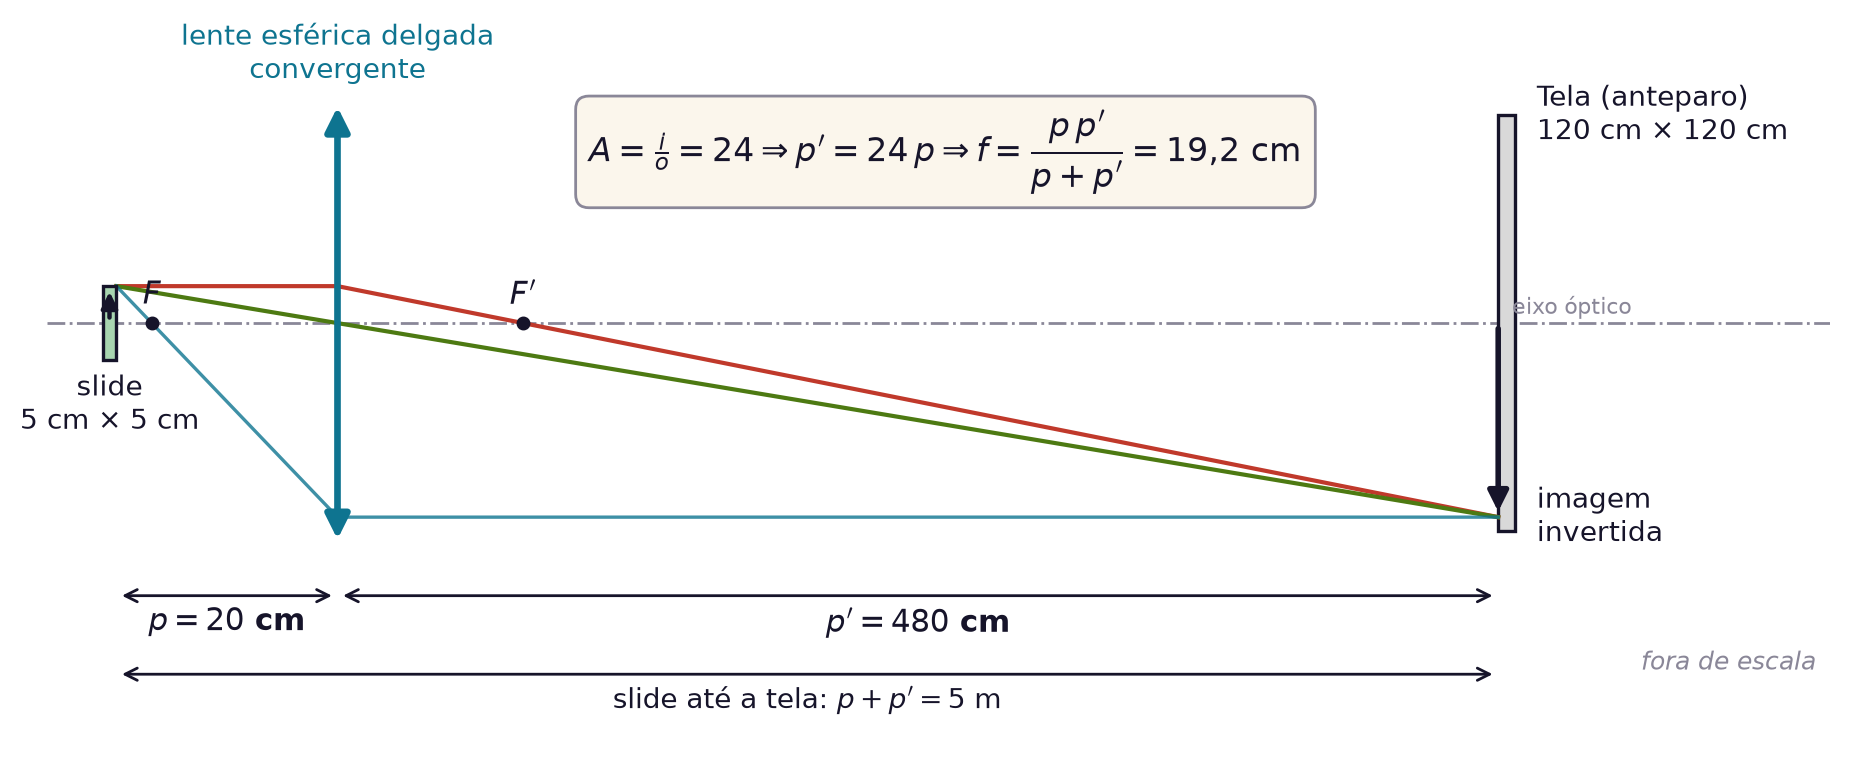
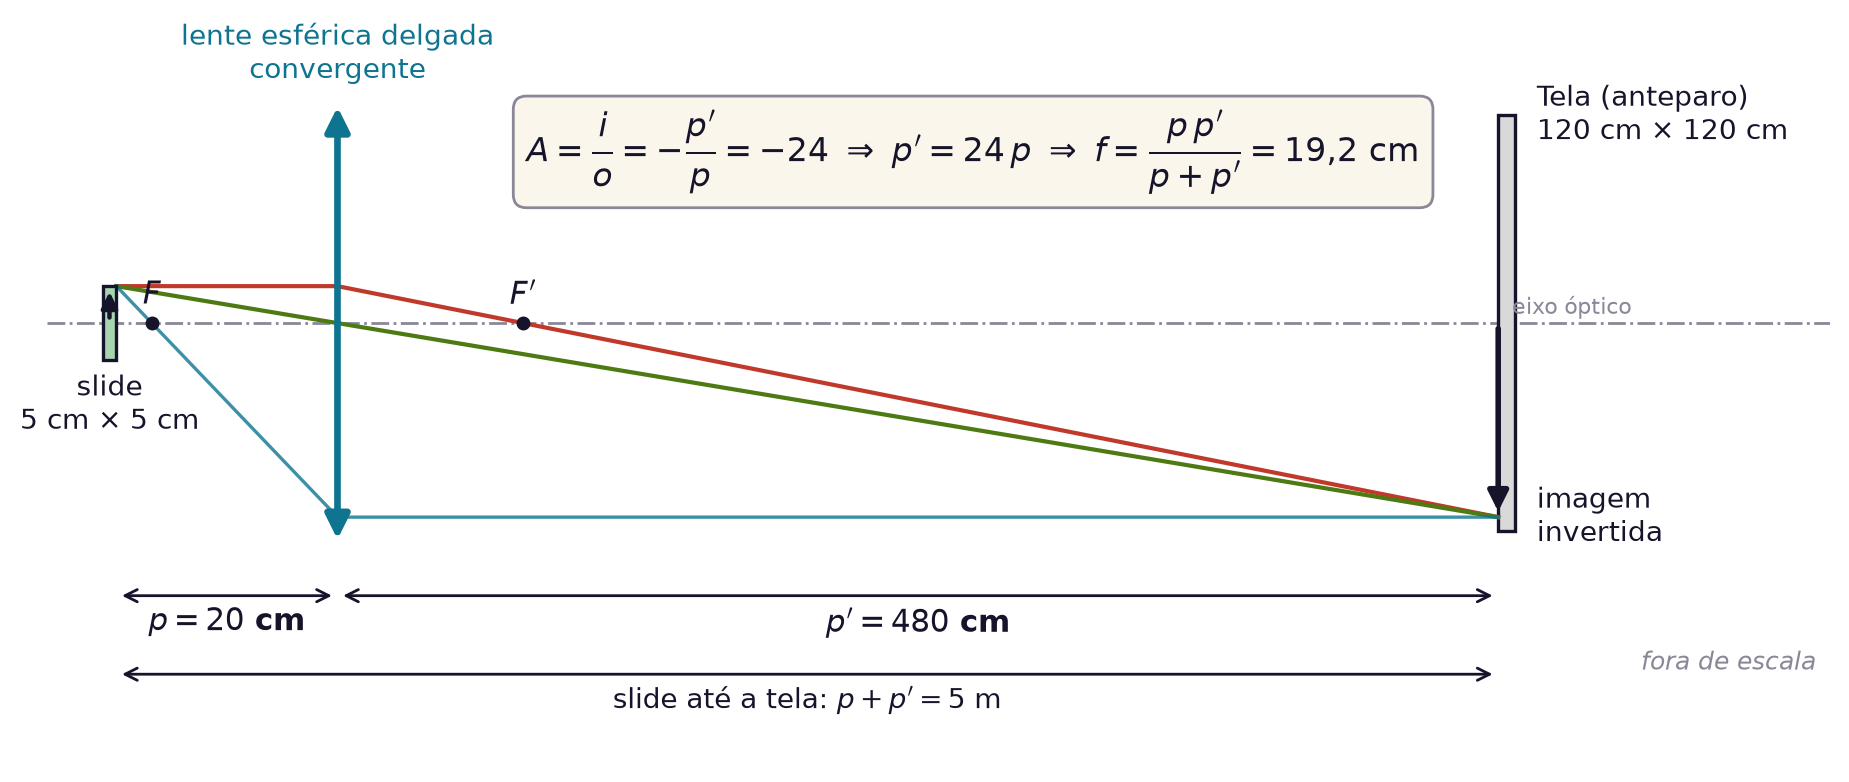
UNESP 2027: ajustes nas resolucoes (Q76, Q80), figuras e Q77 (#11)

diff --git a/unesp.html b/unesp.html
@@ -356,24 +356,30 @@
   <details class="fv-res">
     <summary>Ver resolução</summary>
     <div class="fv-text">
-      <p>Para aparecer numa tela a imagem tem de ser <b>real</b> (e, numa lente convergente, invertida). Chame de <i>p</i> a distância slide–lente e de <i>p′</i> a distância lente–tela.</p>
-      <p><b>1. Aumento linear.</b> Imagem e tela são quadrados de mesma área, então o lado da imagem é <span data-tex-i="120\ \text{cm}">120 cm</span>:</p>
+      <p>Para aparecer numa tela, a imagem tem de ser <b>real</b>, e numa lente convergente ela é <b>invertida</b>. Chame de <i>p</i> a distância slide–lente e de <i>p′</i> a distância lente–tela, e adote a convenção: altura do objeto <i>o</i> positiva e da imagem <i>i</i> negativa quando ela é invertida.</p>
+      <p><b>1. Aumento linear transversal.</b> Ele relaciona as alturas e as distâncias. O sinal negativo indica imagem invertida:</p>
       <div class="fv-calc">
-        <span data-tex="A=\dfrac{i}{o}=\dfrac{120}{5}=24\;\Rightarrow\;p'=24\,p">A = i/o = 120/5 = 24  ⇒  p′ = 24·p</span>
+        <span data-tex="A=\dfrac{i}{o}=-\dfrac{p'}{p}">A = i/o = −p′/p</span>
       </div>
+      <p>Imagem e tela são quadrados de mesma área, então o lado da imagem é <span data-tex-i="120\ \text{cm}">120 cm</span>. Como ela é invertida, <span data-tex-i="i=-120\ \text{cm}">i = −120 cm</span>, e o slide tem <span data-tex-i="o=5\ \text{cm}">o = 5 cm</span>:</p>
+      <div class="fv-calc">
+        <span data-tex="A=\dfrac{i}{o}=\dfrac{-120}{5}=-24">A = i/o = −120/5 = −24</span>
+        <span data-tex="-\dfrac{p'}{p}=-24\;\Rightarrow\;p'=24\,p">−p′/p = −24  ⇒  p′ = 24·p</span>
+      </div>
+      <p>O sinal negativo só informa que a imagem é invertida. O que importa para as distâncias é que a imagem é 24 vezes maior que o slide.</p>
       <p><b>2. Distâncias.</b> O slide está a <span data-tex-i="5\ \text{m}">5 m</span> da tela (desprezando a espessura da lente delgada):</p>
       <div class="fv-calc">
-        <span data-tex="p+p'=500\ \text{cm}\;\Rightarrow\;25\,p=500\;\Rightarrow\;p=20\ \text{cm},\quad p'=480\ \text{cm}">p + p′ = 500 cm  ⇒  p = 20 cm e p′ = 480 cm</span>
+        <span data-tex="p+p'=500\ \text{cm}\;\Rightarrow\;p+24\,p=500\;\Rightarrow\;25\,p=500\;\Rightarrow\;p=20\ \text{cm},\quad p'=480\ \text{cm}">p + p′ = 500 cm  ⇒  p = 20 cm e p′ = 480 cm</span>
       </div>
       <p><b>3. Equação de Gauss.</b></p>
       <div class="fv-calc">
-        <span data-tex="\dfrac{1}{f}=\dfrac{1}{p}+\dfrac{1}{p'}=\dfrac{1}{20}+\dfrac{1}{480}=\dfrac{25}{480}\;\Rightarrow\;f=\dfrac{480}{25}=19{,}2\ \text{cm}">1/f = 1/20 + 1/480 = 25/480  ⇒  f = 19,2 cm</span>
+        <span data-tex="\dfrac{1}{f}=\dfrac{1}{p}+\dfrac{1}{p'}=\dfrac{1}{20}+\dfrac{1}{480}=\dfrac{24+1}{480}=\dfrac{25}{480}\;\Rightarrow\;f=\dfrac{480}{25}=19{,}2\ \text{cm}">1/f = 1/20 + 1/480 = 25/480  ⇒  f = 19,2 cm</span>
       </div>
   <figure class="fv-fig" style="max-width:760px;justify-self:center">
     <img src="unesp/q80-lente.png" width="1900" height="790" alt="Diagrama com o slide (objeto) a 20 centímetros da lente convergente e a tela (anteparo) a 480 centímetros da lente. Três raios saem do topo do slide e se cruzam na base da tela, formando a imagem invertida." loading="lazy">
-    <figcaption>Resolução: o raio paralelo ao eixo passa por F′, o raio central não desvia e o raio que passa por F sai paralelo. Os três se encontram na imagem, invertida e ampliada 24 vezes. Desenho esquemático: as distâncias reais (20 cm e 480 cm) estão nas cotas.</figcaption>
+    <figcaption>Resolução: o raio paralelo ao eixo passa por F′, o raio central não desvia e o raio que passa por F sai paralelo. Os três se encontram na imagem, invertida (<i>A</i> = −24) e ampliada 24 vezes. Desenho esquemático: as distâncias reais (20 cm e 480 cm) estão nas cotas.</figcaption>
   </figure>
-      <p><b>Atalho.</b> Para uma distância total <span data-tex-i="D=p+p'">D = p + p′</span> e aumento <span data-tex-i="A">A</span>: <span data-tex-i="f=\dfrac{A\,D}{(A+1)^{2}}=\dfrac{24\cdot500}{25^{2}}=19{,}2\ \text{cm}">f = A·D/(A+1)² = 24·500/625 = 19,2 cm</span>.</p>
+      <p><b>Atalho.</b> Para uma distância total <span data-tex-i="D=p+p'">D = p + p′</span> e aumento em módulo <span data-tex-i="|A|">|A|</span>: <span data-tex-i="f=\dfrac{|A|\,D}{(|A|+1)^{2}}=\dfrac{24\cdot500}{25^{2}}=19{,}2\ \text{cm}">f = |A|·D/(|A|+1)² = 24·500/625 = 19,2 cm</span>.</p>
       <p><b>Coerência.</b> O slide fica entre <span data-tex-i="f">f</span> e <span data-tex-i="2f">2f</span> (<span data-tex-i="19{,}2\ \text{cm}">19,2 cm</span> &lt; <span data-tex-i="20\ \text{cm}">20 cm</span> &lt; <span data-tex-i="38{,}4\ \text{cm}">38,4 cm</span>), exatamente a posição que dá imagem real, invertida e ampliada, como num projetor.</p>
       <p class="fv-ans">Resposta: alternativa B</p>
     </div>

diff --git a/unesp/gerar-figuras.py b/unesp/gerar-figuras.py
@@ -188,7 +188,7 @@ def q80():
     ax.text((xL + xS) / 2, yc - 5, "$p' = 480$ cm", ha="center", va="top", fontsize=11, weight="bold")
     ax.annotate("", xy=(xS, yc - 34), xytext=(0, yc - 34), arrowprops=dict(arrowstyle="<->", color=INK))
     ax.text(xS / 2, yc - 39, "slide até a tela: $p + p' = 5$ m", ha="center", va="top", fontsize=10)
-    ax.text(300, 70, "$A = \\frac{i}{o}=24 \\Rightarrow p' = 24\\,p \\Rightarrow f=\\dfrac{p\\,p'}{p+p'}=19{,}2$ cm", ha="center", fontsize=12,
+    ax.text(310, 70, r"$A=\dfrac{i}{o}=-\dfrac{p'}{p}=-24\ \Rightarrow\ p'=24\,p\ \Rightarrow\ f=\dfrac{p\,p'}{p+p'}=19{,}2$ cm", ha="center", fontsize=12,
             bbox=dict(boxstyle="round,pad=0.4", fc="#fbf6ec", ec=GREY))
     ax.text(615, -150, "fora de escala", fontsize=9, color=GREY, style="italic", ha="right")
     ax.set_xlim(-25, 620); ax.set_ylim(-190, 130)
